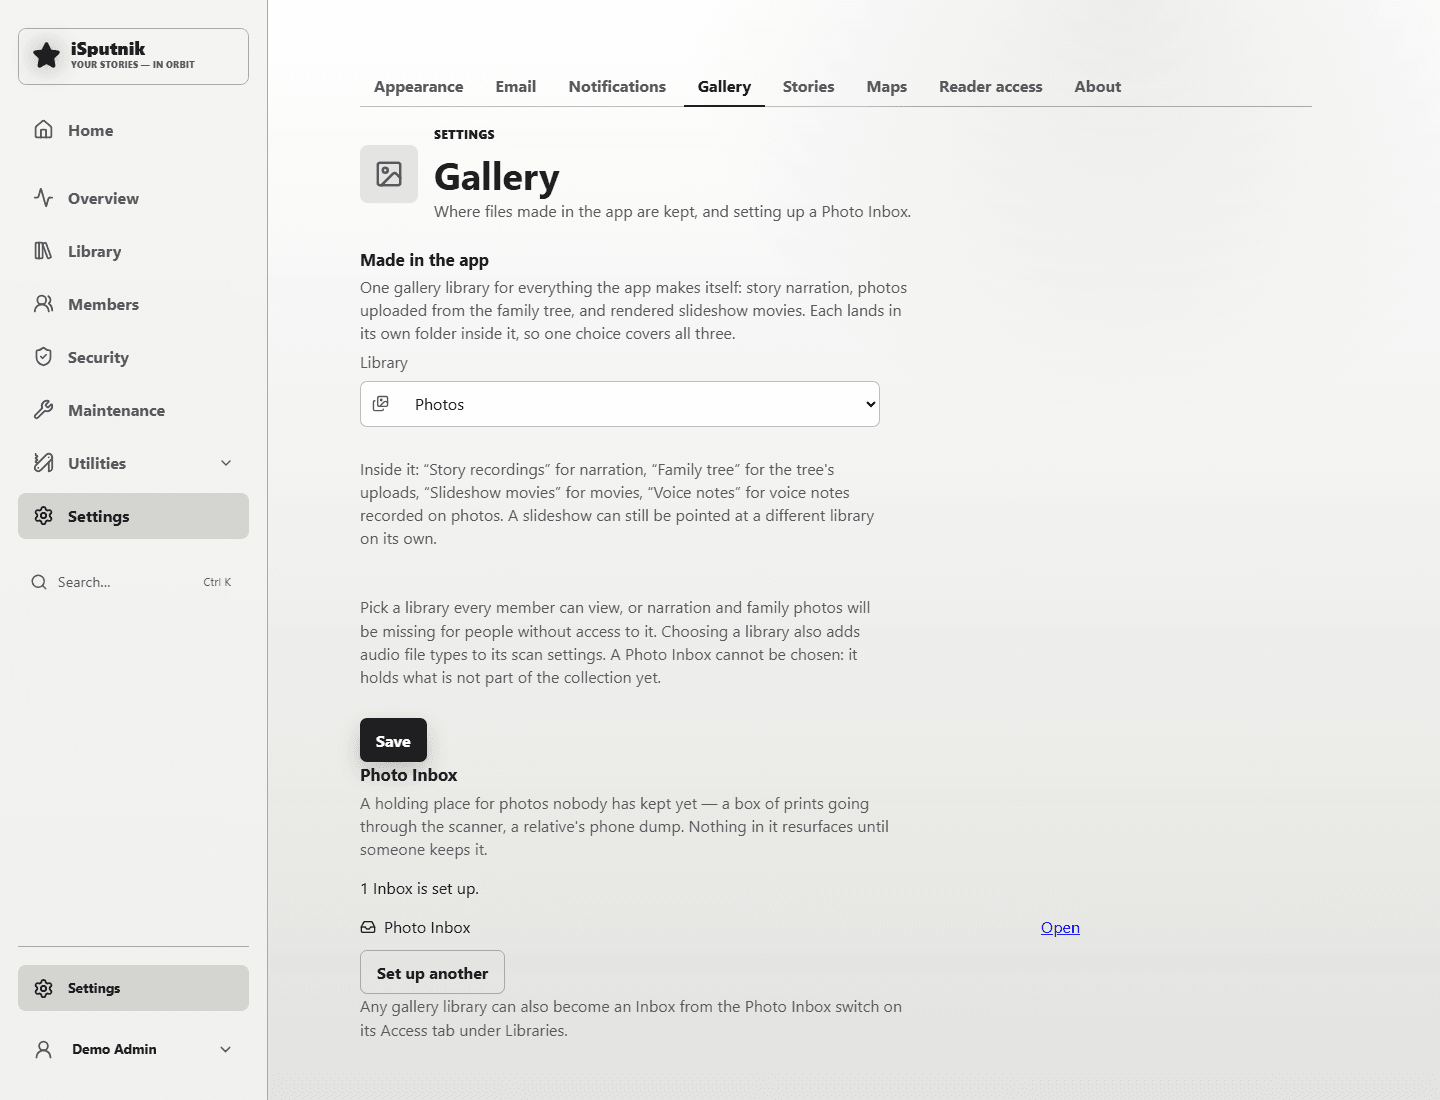
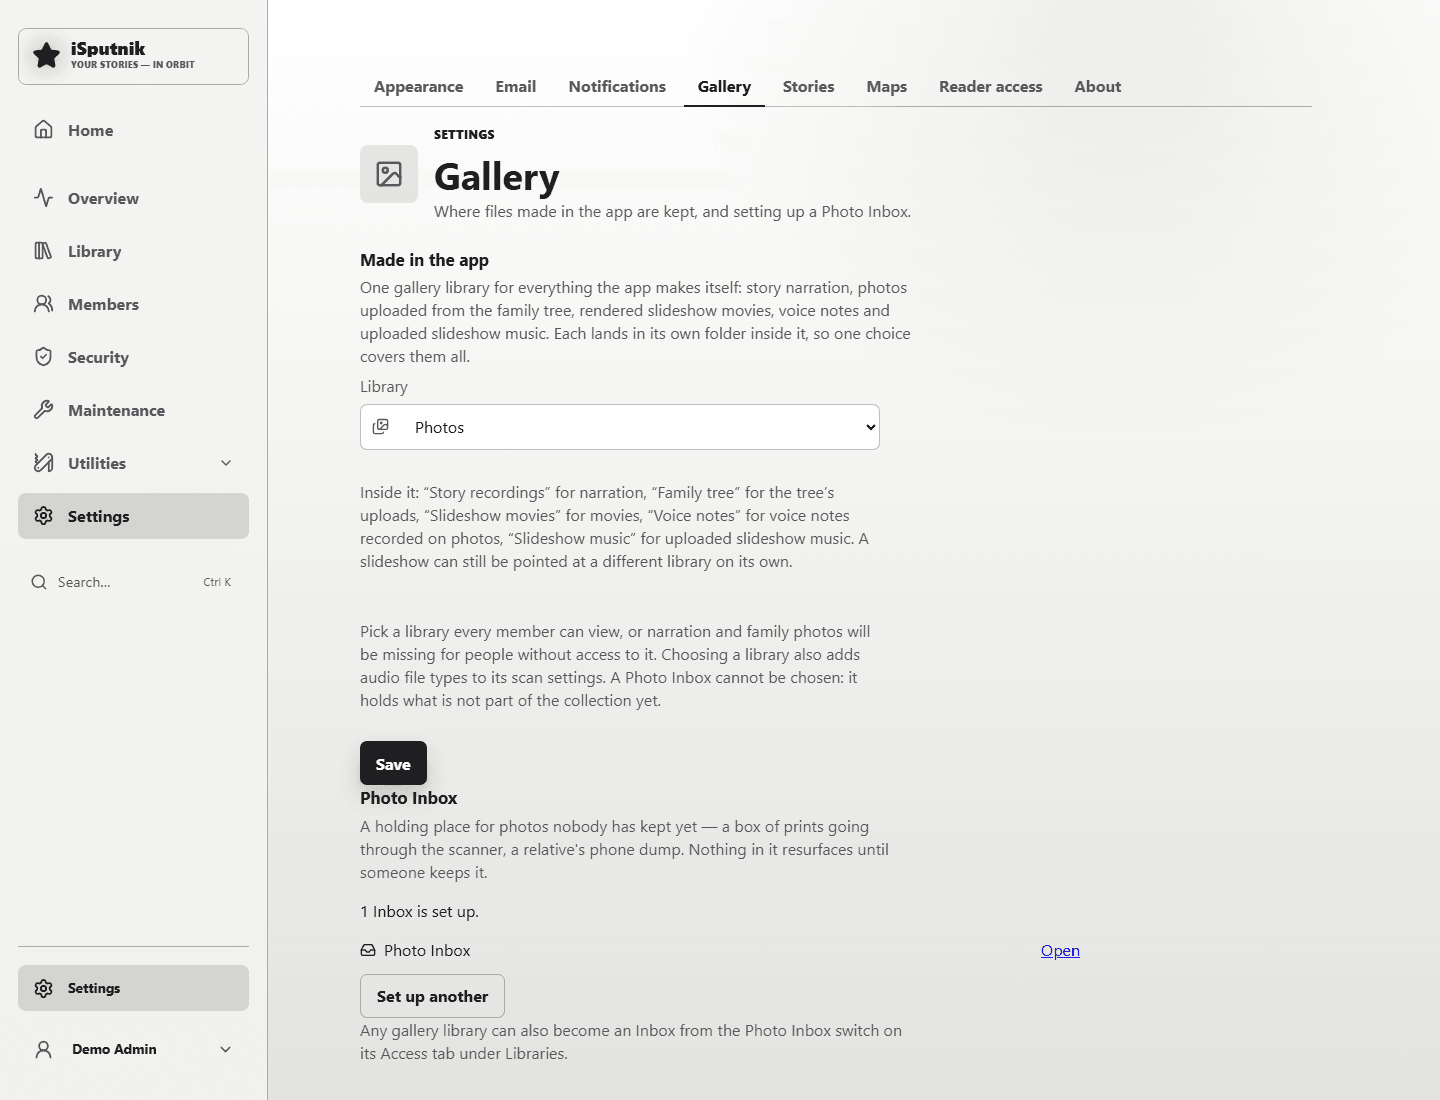
release: 3.79.1 - pictures of the rooms
Guide screenshots for App storage: a room's chooser, the confirmation box,
and the setup guide's Storage and Made in the app steps; refreshed Storage
and Gallery settings pictures. The setup guide's library fields are labelled
"Library" instead of repeating their heading.

Changed region(s): [[0.25, 0.2782, 0.625, 0.9582], [0.7188, 0.8345, 0.75, 0.8655]]

diff --git a/apps/web/src/pages/WelcomePage.tsx b/apps/web/src/pages/WelcomePage.tsx
@@ -557,7 +557,7 @@ export function WelcomePage({ user, onDone }: {
                         <h3>{name === "house" ? t("welcome.galleryHouseLabel") : t("welcome.galleryInboxLabel")}</h3>
                         <p className="welcome-note">{name === "house" ? t("welcome.galleryHouseNote") : t("welcome.galleryInboxNote")}</p>
                         <div className="field source-folder-field">
-                          <span>{name === "house" ? t("welcome.galleryHouseLabel") : t("welcome.galleryInboxLabel")}</span>
+                          <span>{t("welcome.galleryLibraryLabel")}</span>
                           <div className="source-folder-control">
                             <Images size={19} aria-hidden="true" />
                             <span>{view?.library?.name ?? t("welcome.galleryNotSet")}</span>

diff --git a/apps/server/src/changelog.ts b/apps/server/src/changelog.ts
@@ -19,6 +19,14 @@ export const RECENT_VERSION_COUNT = 10;
 
 export const VERSION_UPDATES: VersionUpdate[] = [
   {
+    version: "3.79.1",
+    label: "Pictures of the rooms",
+    changes: [
+      "The Storage guide under Help now shows a room's chooser and the confirmation box that names the folder before anything moves, and the first-run guide shows the setup guide's Storage step and its Made in the app step. The pictures of the configured Storage page and of Settings → Gallery are refreshed to match the current wording.",
+      "In the setup guide's Made in the app step, the field under each heading is labelled \"Library\" rather than repeating the heading."
+    ]
+  },
+  {
     version: "3.79.0",
     label: "Music in the library",
     changes: [

diff --git a/docs/users/first-run.md b/docs/users/first-run.md
@@ -58,6 +58,10 @@ seven steps, in the order they depend on each other:
    exactly like nothing having happened.
 7. **Appearance** — the theme the sign-in screen uses and new members start with.
 
+![The guide's Storage step: the containers, App storage chosen, and which rooms it keeps](images/103-welcome-storage.png)
+
+![The guide's Made in the app step: the two libraries, each one click away](images/104-welcome-gallery.png)
+
 Every step saves through the same place its Control panel page does, so none of it is
 your only chance to answer. **Skip for now** is a real answer — it closes the guide for
 good rather than asking again at every sign-in — and **Settings → About** has a *Run the

diff --git a/docs/users/storage.md b/docs/users/storage.md
@@ -63,6 +63,10 @@ names the room, shows the exact folder it will use from now on, says what moves
 and what doesn't, and offers Cancel or a verb. Nothing happens until you press
 the verb.
 
+![The Renders and music chooser: use App storage, or stay inside the thumbnail folder](images/101-storage-room-chooser.png)
+
+![The confirmation for the Recycle Bin: the exact folder, what moves, and Move bin](images/102-storage-room-confirm.png)
+
 Three rooms are worth a word each:
 
 - **Recycle Bin.** Changing its location moves whatever is in the bin to the new
